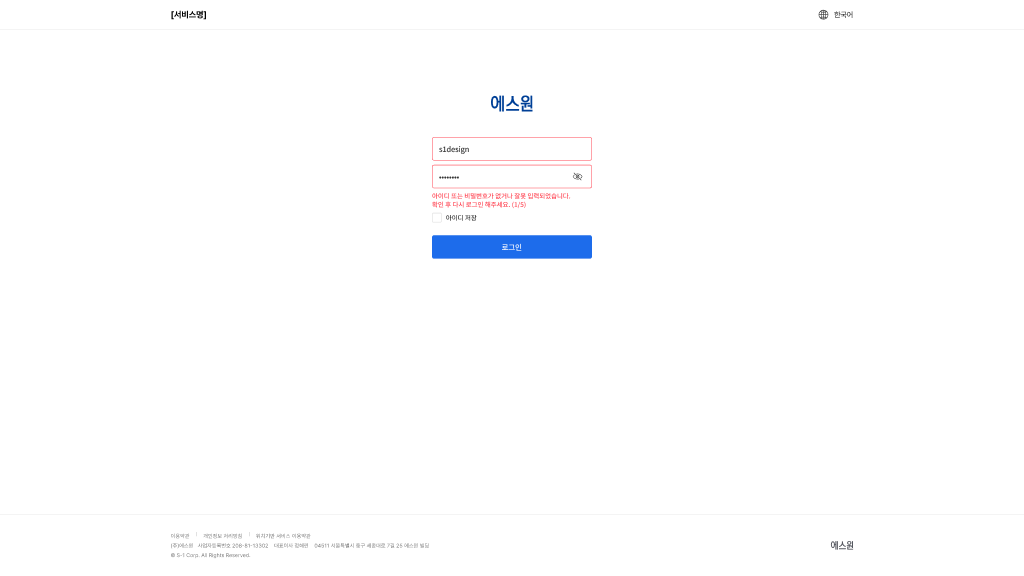
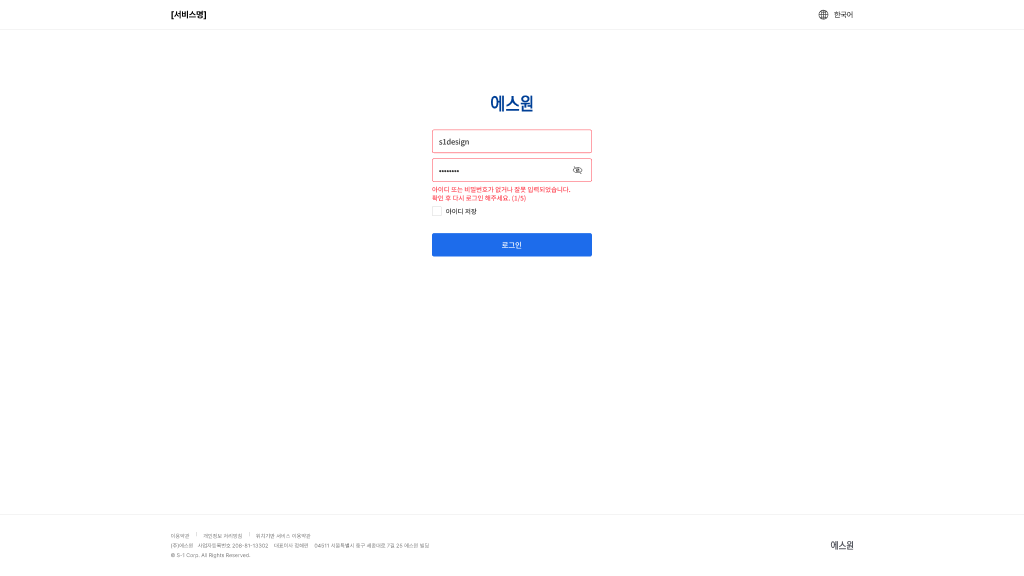
fix(pattern): PC 로그인 간격을 고객 계정 UX Guide 기준으로 — 로고→칸 34 · 칸 사이 10 · 버튼 위 32
river 2026-10-02 「창틀은 빼고 간격만 기준대로 바꿔줘」. 7장 제자리 수정,
snapdiff 선언 밖 변경 0, component-verifier PASS.

Changed region(s): [[0.4062, 0.2188, 0.5938, 0.4688]]

diff --git a/reports/screen-rebuild/login/pc-web/ref/compare.html b/reports/screen-rebuild/login/pc-web/ref/compare.html
@@ -1,0 +1,83 @@
+<!doctype html>
+<html lang="ko">
+<head>
+<meta charset="utf-8">
+<meta name="viewport" content="width=device-width, initial-scale=1">
+<title>로그인 위치 대조</title>
+<style>
+  :root{--bg:#f5f5f5;--card:#fff;--text:#202020;--sub:#757575;--line:#e0e0e0;--accent:#1d6ceb;--red:#e5484d}
+  @media (prefers-color-scheme: dark){:root{--bg:#131418;--card:#1e2026;--text:#eee;--sub:#9a9a9a;--line:#33363d;--accent:#5b9bff;--red:#ff6b70}}
+  body{margin:0;background:var(--bg);color:var(--text);font-family:Pretendard,-apple-system,"Apple SD Gothic Neo",sans-serif}
+  .wrap{max-width:1960px;margin:0 auto;padding:28px 32px 48px}
+  h1{font-size:22px;margin:0 0 6px}
+  p.lead{margin:0 0 20px;color:var(--sub);font-size:14px;line-height:1.6}
+  .tabs{display:flex;gap:8px;margin-bottom:16px}
+  .tabs button{font:inherit;font-size:14px;padding:8px 14px;border-radius:8px;border:1px solid var(--line);background:var(--card);color:var(--text);cursor:pointer}
+  .tabs button.on{border-color:var(--accent);color:var(--accent);font-weight:600}
+  .pair{display:grid;grid-template-columns:1fr 1fr;gap:16px}
+  .pair figure{margin:0;background:var(--card);border:1px solid var(--line);border-radius:10px;overflow:hidden}
+  .pair img{display:block;width:100%}
+  figcaption{padding:10px 14px;font-size:14px}
+  .stage{position:relative;width:960px;max-width:100%;background:var(--card);border:1px solid var(--line);border-radius:10px;overflow:hidden}
+  .stage img{display:block;width:100%}
+  .stage .top{position:absolute;left:0;width:100%;top:0;mix-blend-mode:multiply}
+  .ctrl{display:flex;align-items:center;gap:12px;margin:12px 0;font-size:14px;color:var(--sub)}
+  table{border-collapse:collapse;margin-top:28px;font-size:14px;background:var(--card);border:1px solid var(--line);border-radius:10px;overflow:hidden}
+  th,td{padding:9px 14px;border-bottom:1px solid var(--line);text-align:left}
+  th{color:var(--sub);font-weight:600}
+  td.diff{color:var(--red);font-weight:600}
+  .hide{display:none}
+  @media (max-width:720px){.wrap{padding:20px 16px}.pair{grid-template-columns:1fr}table{font-size:13px}}
+</style>
+</head>
+<body>
+<div class="wrap">
+  <h1>로그인 위치 대조 — 기준 자료 vs 지금 결과</h1>
+  <p class="lead">기준 자료는 맨 위에 브라우저 창틀(88)이 그려져 있어 전체가 그만큼 내려가 보입니다.<br>「창틀 맞춰 겹치기」에서 맨 위 줄 끝을 맞춰 겹쳐 보면 실제 차이만 남습니다.</p>
+  <div class="tabs">
+    <button class="on" data-v="side">나란히</button>
+    <button data-v="raw">그대로 겹치기</button>
+    <button data-v="align">창틀 맞춰 겹치기</button>
+  </div>
+
+  <div id="side" class="pair">
+    <figure><img src="R-1.png" alt=""><figcaption><b>기준</b> · 고객 계정 UX Guide</figcaption></figure>
+    <figure><img src="C-1.png" alt=""><figcaption><b>지금</b> · PC/LOGIN/1</figcaption></figure>
+  </div>
+
+  <div id="over" class="hide">
+    <div class="ctrl">지금 결과 진하기 <input type="range" id="op" min="0" max="100" value="50"> <span id="opv">50%</span></div>
+    <div class="stage" id="stage">
+      <img src="R-1.png" alt="">
+      <img src="C-1.png" alt="" class="top" id="top">
+    </div>
+  </div>
+
+  <table>
+    <tr><th>항목</th><th>기준</th><th>지금</th></tr>
+    <tr><td>맨 위 줄 끝 → 로고</td><td>123</td><td>123</td></tr>
+    <tr><td>로고 → 아이디 칸</td><td>34</td><td class="diff">48</td></tr>
+    <tr><td>입력칸 크기</td><td>320 × 48</td><td class="diff">300 × 44</td></tr>
+    <tr><td>칸 사이</td><td>10</td><td class="diff">8</td></tr>
+    <tr><td>비밀번호 칸 → 로그인 버튼</td><td>32</td><td>8 + 아이디 저장 + 24</td></tr>
+    <tr><td>버튼 크기</td><td>320 × 48</td><td class="diff">300 × 44</td></tr>
+    <tr><td>버튼 아래</td><td>찾기 링크 3개 · 휴대전화번호로 로그인</td><td>없음</td></tr>
+    <tr><td>브라우저 창틀</td><td>있음 (88)</td><td class="diff">없음</td></tr>
+  </table>
+</div>
+<script>
+  const top=document.getElementById('top'),op=document.getElementById('op'),opv=document.getElementById('opv');
+  function setOp(){top.style.opacity=op.value/100;opv.textContent=op.value+'%'}
+  op.oninput=setOp;setOp();
+  function show(v){
+    document.querySelectorAll('.tabs button').forEach(b=>b.classList.toggle('on',b.dataset.v===v));
+    document.getElementById('side').classList.toggle('hide',v!=='side');
+    document.getElementById('over').classList.toggle('hide',v==='side');
+    // 기준 145(창틀 88+맨 위 줄 57) vs 지금 56 → 지금 결과를 89 내려 맞춘다(그림은 1/2 배율, 폭 비율로 환산)
+    top.style.top = v==='align' ? (89/1920*100)+'cqw' : '0';
+  }
+  document.getElementById('stage').style.containerType='inline-size';
+  document.querySelectorAll('.tabs button').forEach(b=>b.onclick=()=>show(b.dataset.v));
+</script>
+</body>
+</html>

diff --git a/reports/screen-rebuild/login/pc-web/build-code.js b/reports/screen-rebuild/login/pc-web/build-code.js
@@ -162,9 +162,9 @@ async function buildScreen(section, key) {
   const ci = await inst(SET.ci, ["Brand=에스원", "Color=Blue"]);
   ci.name = "CI / 에스원 / Blue";
   box.appendChild(ci);
-  spacer(box, "CI-Fields", 48);
+  spacer(box, "CI-Fields", 34);                     // 변경 1 (river 2026-10-02): 48→34
 
-  const fields = autoFrame("VERTICAL", "Fields", 8);
+  const fields = autoFrame("VERTICAL", "Fields", 10); // 변경 1: 칸 사이 8→10
   box.appendChild(fields);
   fields.layoutSizingHorizontal = "FILL";
   await loginInput(fields, "ID", s.id);
@@ -179,7 +179,7 @@ async function buildScreen(section, key) {
   chk.name = "Checkbox";
   row.appendChild(chk);
   row.appendChild(await authoredText("아이디 저장", STYLE_LABEL, VAR.ctlLabel, "SaveId Label"));
-  spacer(box, "SaveId-Login", 24);
+  spacer(box, "SaveId-Login", 32);                  // 변경 1: 24→32
 
   const btn = await inst(SET.button, ["Size=MD", "State=" + s.btn, "Variant=Primary", "Break=PC"]);
   btn.name = "Button / 로그인";

diff --git a/reports/screen-rebuild/login/pc-web/ref/compare.md b/reports/screen-rebuild/login/pc-web/ref/compare.md
@@ -1,0 +1,47 @@
+# PC 로그인 세로 배치 비교 (기준 R ↔ 현재 C) — 푸터 제외
+
+판독: Figma REST (읽기 전용). 좌표는 각 화면 프레임 좌상단 기준 절대값(px). 판독일 2026-10-02.
+
+- R = fIHTlq3ZAZXhHZGNnADD21 / 2445:13768 `웹_로그인 화면` — **화면 1장**(여러 장 묶음 아님). 1920x1080. 오류 화면 없음: `popup_message`(2445:13812, y180 h52, 폭 1920) 가 있으나 **숨김 + 자식 0개(빈 프레임)** → R-err.png 없음.
+- C-1 = cysG5U1udpQqVagYY1hWHW / 2703:3, C-4a1 = 2706:49. 1920x1080.
+
+## 비교표
+
+| 항목 | R 기준 (2445:13768) | C-1 최초 진입 (2703:3) | C-4a1 오류 (2706:49) |
+|---|---|---|---|
+| 화면 크기 | 1920x1080 | 1920x1080 | 1920x1080 |
+| 브라우저 창틀 | **있음** `browser_tab` y0 h88 (그림, 크롬 탭·주소줄) | 없음 | 없음 |
+| 맨 위 줄 | y88~145 (h57, 하단 1px 선 y144 #e9e9e9). 좌측 "에스원 UVIS" BI x30 y106.5 134x19 | y0~56 (h56) LoginGNB: "[서비스명]" x320, "한국어" 우측 | 동일 |
+| 맨 위 줄 아래 끝 y | **145** | **56** | 56 |
+| 중앙 로고 | "에스원" S1 로고 벡터(#004097), 77.9x30, y268~298, x921.1 (가운데: 921.1+77.9/2=960 ✔) | CI/에스원/Blue 78.75x30, y179~209, x920.6 (가운데 ✔) | 동일 |
+| 헤더 아래 끝 → 로고 위 | **123** (145→268) | **123** (56→179) | 123 |
+| 로고 아래 → 첫 입력칸 | **34** (298→332) | **48** (209→257, Spacer 48) | 48 |
+| 아이디 칸 | y332 h48 w320, x800 (가운데 ✔). placeholder "아이디를 입력해 주세요" | y257 h44 w300, x810 | y257 h44 w300 |
+| 칸 사이 간격 | **10** (380→390) | **8** (301→309) | 8 |
+| 비밀번호 칸 | y390 h48 (~438), 우측 눈 아이콘 ic_비밀번호미표시 24px x1084. placeholder "비밀번호를 입력해 주세요" | y309 h44 (~353) | y309 h44 (~353), 아래 오류문구 |
+| 아이디 저장 | **없음** | 있음 y361 h18 (체크박스 18 x810 + "아이디 저장" x836). 비번칸 아래 8 간격 | y399 h18 |
+| (저장 아래 →) 버튼 간격 | 비번칸 아래 → 로그인 버튼 **32** (438→470) | 저장 아래 → 버튼 **24** (379→403) | 24 (417→441) |
+| 로그인 버튼 | y470 h48 w320 x800, 비활성 느낌 #f5f5f5 배경·글자 #c4c4c4 "로그인" (mobile_button 인스턴스) | y403 h44 w300 x810, #f5f5f5 / 글자 #c4c4c4 | y441 h44 #1d6ceb 흰 글자 |
+| 버튼 아래 링크 | 버튼 아래 **16** (518→534), y534 h18, x842~1078(236폭, 가운데), 글자 #757575, 구분선 1x12 #d9d9d9. 문구 verbatim: "회원가입" / "아이디 찾기" / "비밀번호 찾기" | 없음 | 없음 |
+| 링크 아래 추가 버튼 | 링크 아래 **32** (552→584), y584 h48 w320, 흰 배경, 글자 #353535 "휴대전화번호로 로그인" | 없음 | 없음 |
+| 오류 문구 | (없음 — 숨김 popup_message 는 비어 있음) | — | 비번칸 아래 **6** (353→359), y359 h32 w300, #ff4554, "아이디 또는 비밀번호가 없거나 잘못 입력되었습니다.\n확인 후 다시 로그인 해주세요. (1/5)" → 비번 필드 바운딩이 h82(309~391)로 늘어남, 아이디 저장은 그 아래 8 |
+| 묶음 범위(로고~마지막 요소) | y268~632 (h364) | y179~447 (h268) | y179~485 (h306) |
+| 푸터 위 끝 y (계산용) | 956 (pc_footer 인스턴스 956~1040, 감싸는 프레임 956~1080) | 964 (Footer 964~1080) | 964 |
+| 본문 영역 (헤더 아래~푸터 위) | 145~956 (h811) | 56~964 (h908) | 56~964 |
+| 묶음의 본문 내 위치 | 위 여백 **123** / 아래 여백 **324**. 묶음 세로 중심 450, 본문 중심 550.5 → **중심이 100.5 위** (가운데 정렬 아님, 위 고정 123) | 위 123 / 아래 **517** (964-447). 중심 313 vs 본문 중심 510 → **197 위** (가운데 정렬 아님, 위 고정 123) | 위 123 / 아래 479. 중심 332 vs 510 → 178 위 |
+| 묶음 가로 | x780~1140 래퍼 w360 (입력칸 폭 320) | x810~1110 (w300) | 동일 |
+
+## 읽는 법 (사실만)
+
+- **헤더 아래 → 로고 간격은 R·C 모두 123으로 같다.** 절대 y 가 R 쪽이 큰 이유는 R 에 브라우저 창틀 88px + 헤더 57px(=145) 가 있고 C 는 헤더 56px 뿐이어서다. 창틀을 뺀 "페이지" 기준으로 보면 R 로고 y=180, 첫 입력칸 y=244(332-88), 버튼 y=382 — C 는 로고 179, 입력칸 257, 버튼 403.
+- 1080 프레임 안에서 눈으로 보는 위치(절대 y): R 첫 입력칸 332, C 257 → C 가 **75px 위**. 로고 268 vs 179 → 89px 위.
+- 로고→입력칸 간격 R 34 / C 48, 칸 높이 R 48 / C 44, 폭 R 320 / C 300, 칸 간격 R 10 / C 8.
+- R 묶음은 더 길다(364 vs 268): 아이디 저장 없음 · 링크 3개 · "휴대전화번호로 로그인" 버튼 추가. 위 여백은 R 도 가운데 정렬이 아니라 위에서 123 고정 + 아래로 쌓은 구조.
+- R 기준 쓰인 색(참고): 로고 #004097, 배경 #ffffff, placeholder #757575, 로그인 버튼 #f5f5f5/#c4c4c4, 링크 #757575, 구분선 #d9d9d9, 헤더 선 #e9e9e9, 휴대전화 버튼 글자 #353535. 부품 이름(참고): input, mobile_button, pc_text_button, pc_footer, popup_message.
+- 미확인: R 의 칸 테두리 색·두께, R 에서 오류 상태가 실제로 어떻게 보이는지(오류 화면 자체가 파일에 없음). 폰트 크기는 이번 비교 대상 아님.
+
+## 스크린샷 (1920 폭의 1/2 = 960x540, 같은 배율)
+
+- R-1.png (기준 · 브라우저 창틀 포함)
+- C-1.png · C-4a1.png (현재)
+- R-err.png : 없음 (기준에 오류 화면이 없다)

diff --git a/reports/screen-rebuild/login/pc-web/4-verification.md b/reports/screen-rebuild/login/pc-web/4-verification.md
@@ -96,3 +96,57 @@ pilot 의 별도 항목 2건은 그대로 이어진다: needs-core-update 1건(I
 ### 권장 상태 전환
 - `currentPhase` = 4-verify PASS(7장) · `lastCompletedCheckpoint` = 4 · `artifacts.verification` = `4-verification.md`
 - `nextAction` = 5단계 패턴 등록(`registry/patterns/pc-login/`). 그 전에 `아이디 저장` 데스크톱 눈 확인 1번을 권장한다.
+
+---
+
+## 변경 1 — 간격 3군데 델타 재검증 · 2026-10-02 · component-verifier
+
+- 지시: river 「창틀은 빼고 간격만 기준대로 바꿔줘」. `intent.md` 변경 1 절과 `2-mapping.md` 에 따라 바꾼 것은 세 가지다: 로고→칸 48→34, 칸 사이 8→10, 아이디 저장→버튼 24→32. 비번칸→아이디 저장 8 과 창틀·크기는 바꾸지 않는다.
+- baseline 은 existing-nodes 를 추가했다. 증거는 `snapshot-before.json` / `snapshot-after.json` / `snapshot-expect.json`(오케스트레이터 작성) 세 파일이다.
+
+### 판정: **PASS** — ❌(a) 0 · ❓(c) 0 · 🟡(b) 0 · BLOCKED 0
+
+### after 스냅샷이 증거로 충분한지 판단
+- 빌더는 before 에 기대 변경을 적용해 after 를 로컬에서 만들었다. 그 뒤 Figma 쪽 조각 해시와 같은지 확인했다고 적었다. 이 경우 해시를 비교한 사람이 빌더 자신이므로, 그 기록만으로는 독립 증거가 아니라고 봤다.
+- 그래서 검증자가 직접 다시 확인했다. 실제 캔버스에서 같은 캡처 코드(`snapshot-diff.md` §1)를 다시 돌리고, 노드 id 정렬 → 화면별로 묶음 → FNV-1a 해시 순서로 직접 계산했다. 같은 방식으로 로컬 `snapshot-after.json` 의 해시도 계산했다.
+  - 결과: 8묶음(루트 1 + 화면 7), 노드 386개가 모두 일치했다 (1 `fa0f0b9e`·2 `a83aa788`·3 `85c16965`·4 `c0988be`·4a1 `ca43f25c`·4a2 `cb86f43f`·4a3 `4efbc0b1`·루트 `70a1f7c5`). 캡처 시각은 2026-10-02T00:55Z.
+  - 결론: after 파일은 현재 캔버스와 내용이 같다. 증거로 인정한다.
+- before 는 지나간 상태라 다시 뜰 수 없다. 대신 직전 「전체 7장」 검증에서 직접 잰 값과 맞춰 봤다. 간격 48/8/24, 상자 높이 268·306·290 이 before 와 같으므로 before 도 믿을 만하다고 판단했다.
+
+### snapdiff (검증자 재실행)
+```
+npm run snapdiff -- snapshot-before.json snapshot-after.json --expect snapshot-expect.json
+노드 386 → 386 · 추가 0 · 삭제 0 · 변경 77 (y 42 · 높이 28 · itemSpacing 7)
+✅ diff 가 기대 선언과 정확히 일치 — 선언 밖 변경 0건   EXIT=0
+```
+
+### 실제 캔버스 값 직접 확인 (21개 노드 + 연동 값)
+
+| 화면 | CI-Fields 스페이서 | Fields 간격 / 높이 | Fields-SaveId | SaveId-Login 스페이서 | LoginBox |
+|---|---|---|---|---|---|
+| 1 | 2703:19 300×34 FILL/FIXED | 2703:20 10 / 98 | 8 | 2703:51 300×32 FILL/FIXED | 300×264 · y 123 |
+| 2 | 2712:109 34 | 2712:110 10 / 98 | 8 | 2712:149 32 | 264 |
+| 3 | 2712:178 34 | 2712:179 10 / 98 | 8 | 2712:220 32 | 264 |
+| 4 | 2713:217 34 | 2713:218 10 / 98 | 8 | 2713:249 32 | 264 |
+| 4a1 | 2706:63 34 | 2706:64 10 / 136 | 8 | 2706:96 32 | 302 |
+| 4a2 | 2713:278 34 | 2713:279 10 / 136 | 8 | 2713:304 32 | 302 |
+| 4a3 | 2713:333 34 | 2713:334 10 / 120 | 8 | 2713:359 32 | 286 |
+
+- 21개 노드 모두 34 / 10 / 32 이고, 스페이서는 300 FILL · 세로 FIXED 를 유지한다. 바꾸지 않기로 한 8 과 위 패딩 123 도 그대로다.
+
+### 간단 재스캔 (7장)
+- **부품 출처:** 인스턴스는 화면당 10~11개, 위반 0건이다(로컬 정본 + 허용 키 globe·eye_hide·remove).
+- **폰트:** TEXT 는 화면당 11~12개, 비-Pretendard 0건이다.
+- **raw 색:** after 스냅샷 386개 노드에서 raw hex 0건, 비-Pretendard TEXT 0건이다. 변수 바인딩은 diff 로 보면 `f` 변경이 0건이다.
+
+### 렌더 대조 (1 · 4a1 · 4a3)
+- 1·4a1 상자 2배 렌더와 4a3 전체 화면을 봤다. 로고→칸 간격이 줄었고, 칸 사이와 버튼 위 간격은 넓어졌다. 잘림·겹침이 없고 창틀도 없다. 4a1 의 2줄 문구와 4a3 의 1줄 문구는 정상이다.
+
+### 직전 PASS 를 그대로 이어받은 범위 (이번에 다시 확인하지 않음)
+- 텍스트 그대로인지, variant/상태, 글자 근거, 섹션 배치는 직전 「전체 7장」 PASS 를 그대로 이어받았다. 근거는 diff 에서 `tx`·`ts`·`fn`·`f`·`i`·`x` 변경이 0건이고 추가·삭제도 0건이라는 점이다.
+- 2·3·4·4a2 의 렌더는 이번에 보지 않았다(diff 상 y·높이 변경만 있음).
+- 다크 모드와 데스크톱의 `아이디 저장` 정렬은 여전히 NOT_VERIFIED 다. Input `trail` 100×100 은 needs-core-update 로 그대로 남는다.
+
+### 권장 상태 전환
+- `evidence.snapdiff` = { ranAt 2026-10-02, violations 0, by component-verifier(재실행), afterVerifiedBy: 검증자 실측 해시 8묶음 일치 }
+- `lastCompletedCheckpoint` = 4 유지 · `nextAction` = 5단계 패턴 등록

diff --git a/reports/screen-rebuild/login/pc-web/3-build.md b/reports/screen-rebuild/login/pc-web/3-build.md
@@ -92,3 +92,50 @@ verbatim(화면 표시 글자):
 ## 권장 상태 전환
 - `screens` += 2(2712:95)·3(2712:164)·4(2713:203)·4a2(2713:264)·4a3(2713:319)
 - `nextAction` = component-verifier 로 7장 전체 Layer 1 재검사 + 새 5장 이미지 대조
+
+---
+
+# 변경 1 — 간격 3군데 제자리 수정 (baseline existing-nodes, 2026-10-02)
+
+- 지시: 7장 각각 `Spacer / CI-Fields` 48→34 · `Fields` itemSpacing 8→10 · `Spacer / SaveId-Login` 24→32. 재생성 없이 제자리 수정. 다른 속성은 건드리지 않음.
+- 순서: ① 변경 전 스냅샷 → ② 수정(use_figma 1회) → ③ 변경 후 스냅샷 → ④ snapdiff → ⑤ 스크린샷.
+
+## ① 변경 전 스냅샷 — `snapshot-before.json` (386 노드)
+- `snapshot-diff.md` §1 캡처 코드(ROOT_ID 2703:2) 그대로. MCP 응답이 20KB 에서 잘려 섹션 자식(화면) 단위 7조각으로 실행해 합침.
+- 옮겨 적기 검증: 같은 캡처 코드로 Figma 안에서 조각별 FNV-1a 해시·길이·노드 수를 받아, 로컬 파일 해시와 7조각 모두 일치 확인.
+- 첫 쓰기 전 캡처 시각 2026-10-02T00:44:55Z.
+
+## ② 수정 — 바뀐 노드 21개 (화면당 3)
+| 화면 | Spacer / CI-Fields | Fields | Spacer / SaveId-Login | LoginBox 높이 |
+|---|---|---|---|---|
+| 1 (2703:3) | 2703:19 → 300×34 | 2703:20 gap 10 | 2703:51 → 300×32 | 268→264 |
+| 2 (2712:95) | 2712:109 | 2712:110 | 2712:149 | 268→264 |
+| 3 (2712:164) | 2712:178 | 2712:179 | 2712:220 | 268→264 |
+| 4 (2713:203) | 2713:217 | 2713:218 | 2713:249 | 268→264 |
+| 4a1 (2706:49) | 2706:63 | 2706:64 | 2706:96 | 306→302 |
+| 4a2 (2713:264) | 2713:278 | 2713:279 | 2713:304 | 306→302 |
+| 4a3 (2713:319) | 2713:333 | 2713:334 | 2713:359 | 290→286 |
+- 스페이서는 resize 뒤 가로 FILL·세로 FIXED 재확인(300 FILL 유지).
+- `build-code.js` 같은 3값 수정(34 / 10 / 32) — 다음 재빌드가 같은 결과를 냄.
+
+## ③ 변경 후 스냅샷 — `snapshot-after.json` (386 노드)
+- 같은 캡처 코드로 Figma 에서 7조각 해시를 받음(캡처 시각 2026-10-02T00:51:59Z).
+- 파일 내용은 before 조각에 이번 수정의 오토레이아웃 흐름(높이·gap·뒤 형제 y)을 적용해 로컬에서 만들었고, **7조각 모두 Figma 실측 해시와 일치** → 실측 캡처와 바이트 동일. (불일치였으면 실측 조각을 받아 쓰려 했음 — 해당 없음.) 파일 meta.note 에 같은 내용 기록.
+
+## ④ snapdiff (기대 선언은 오케스트레이터 작성본, 손대지 않음)
+```
+npm run snapdiff -- snapshot-before.json snapshot-after.json --expect snapshot-expect.json
+  루트 2703:2 · 노드 386 → 386
+  추가 0 · 삭제 0 · 변경 77
+  y 42건 · 높이 28건 · itemSpacing 7건
+  ✅ diff 가 기대 선언과 정확히 일치 — 선언 밖 변경 0건
+SNAPDIFF_SUMMARY added=0 removed=0 changed=77 violations=0
+EXIT=0
+```
+
+## ⑤ 스크린샷
+- `shots/PC-LOGIN-{1,2,3,4,4a1,4a2,4a3}.png` 7장 덮어씀(변경 후).
+
+## 권장 상태 전환
+- `evidence.baseline` += `existing-nodes`, `evidence.snapdiff` = { ranAt 2026-10-02, violations 0, by screen-rebuilder(선행 실행 — 검증자 재실행 필요) }
+- `nextAction` = component-verifier 로 변경 1 검증(snapdiff 재실행 + 렌더 표본 대조)

diff --git a/reports/screen-rebuild/login/pc-web/intent.md b/reports/screen-rebuild/login/pc-web/intent.md
@@ -18,10 +18,10 @@
 | 맨 위 줄 | LoginGNB (2614:73971) | `[서비스명]` · 한국어 |
 | 브라우저 창틀 | — | **넣지 않는다**(포털과 같음 — 그림으로 그린 창틀) |
 | 가운데 상자 | 프레임 | 폭 300, 위 여백 123 (river 지시 2026-09-28) |
-| CI | CI Brand=에스원 Color=Blue | 상자 맨 위 가운데, 아래 48 |
+| CI | CI Brand=에스원 Color=Blue | 상자 맨 위 가운데, 아래 34 (변경 1) |
 | 아이디 칸 | Input Size=MD Break=PC | 폭 300(FILL), placeholder `아이디를 입력해 주세요.` |
-| 비밀번호 칸 | Input Size=MD Break=PC, Password Icon=on | 칸 사이 8, placeholder `비밀번호를 입력해 주세요.` |
-| 아이디 저장 | Checkbox + 글자 `아이디 저장` | 위 8 · 아래 24 |
+| 비밀번호 칸 | Input Size=MD Break=PC, Password Icon=on | 칸 사이 10 (변경 1), placeholder `비밀번호를 입력해 주세요.` |
+| 아이디 저장 | Checkbox + 글자 `아이디 저장` | 위 8 · 아래 32 (변경 1) |
 | 로그인 버튼 | Button Variant=Primary Size=MD Break=PC | 폭 300(FILL), `로그인` |
 | 찾기 링크 | — | **두지 않는다**(포털 river 확정 2026-09-28) |
 | 맨 아래 띠 | Footer Platform=PC (2614:74065) | 정본 그대로 |
@@ -49,6 +49,13 @@
 - 언어 목록 펼친 화면 — LoginGNB 에 펼친 상태가 없다.
 - 약관 팝업 — 포털 화면에 없고, 레거시 규격(500×700·확인 버튼 없음)이 정본 Modal 과 맞지 않다.
 - 회원가입·아이디/비밀번호 찾기 흐름.
+
+## 변경 1 — 간격 (river 2026-10-02)
+
+- 지시: 「창틀은 빼고 간격만 기준대로 바꿔줘」
+- 기준 자료: Figma `fIHTlq3ZAZXhHZGNnADD21` 2445:13768 (고객 계정 UX Guide) — 대조 `ref/compare.md`·`ref/compare.html`
+- 로고→아이디 칸 48→34 · 칸 사이 8→10 · 아이디 저장→버튼 24→32. 기준에는 아이디 저장이 없어 '마지막 입력 요소→버튼 32'로 적용하고, 비밀번호 칸→아이디 저장 8 은 유지한다.
+- 바꾸지 않는 것: 브라우저 창틀(넣지 않음) · 입력칸/버튼 크기 300×44(PC 정본 MD) · 맨 위 줄→로고 123
 
 ## 끝난 뒤
 

diff --git a/reports/screen-rebuild/login/pc-web/2-mapping.md b/reports/screen-rebuild/login/pc-web/2-mapping.md
@@ -16,10 +16,10 @@
 | 2 | 맨 위 줄 | 정본 인스턴스 | LoginGNB (2614:73971) | FILL 가로, 문구 기본값(`[서비스명]`·`한국어`) 그대로 |
 | 3 | 본문 | 토큰 프레임 | — | VERTICAL, FILL 가로·세로 grow 1, 가로 가운데, 위 패딩 123, 투명 |
 | 4 | 상자 | 토큰 프레임 | — | VERTICAL, 폭 300 FIXED, 높이 HUG, 투명 |
-| 5 | CI | 정본 인스턴스 | CI Brand=에스원 Color=Blue | 상자 안 가운데 정렬, 아래 간격 48 |
+| 5 | CI | 정본 인스턴스 | CI Brand=에스원 Color=Blue | 상자 안 가운데 정렬, 아래 간격 34 |
 | 6 | 아이디 칸 | 정본 인스턴스 | Input Size=MD Break=PC | FILL(폭 300), 안쪽 field 도 FILL. placeholder `아이디를 입력해 주세요.` |
-| 7 | 비밀번호 칸 | 정본 인스턴스 | Input Size=MD Break=PC, Password Icon=true | 6 과의 간격 8. placeholder `비밀번호를 입력해 주세요.` |
-| 8 | 아이디 저장 줄 | 토큰 프레임 | Checkbox State=Default + 텍스트 | HORIZONTAL, 위 8 · 아래 24, 박스–글자 간격 8, 글자 `아이디 저장`. 글자 스타일·색은 정본 Checkbox 라벨 규정(registry/components 의 checkbox 메타·가이드)을 따른다 — 근거를 못 찾으면 needs-decision |
+| 7 | 비밀번호 칸 | 정본 인스턴스 | Input Size=MD Break=PC, Password Icon=true | 6 과의 간격 10. placeholder `비밀번호를 입력해 주세요.` |
+| 8 | 아이디 저장 줄 | 토큰 프레임 | Checkbox State=Default + 텍스트 | HORIZONTAL, 위 8 · 아래 32, 박스–글자 간격 8, 글자 `아이디 저장`. 글자 스타일·색은 정본 Checkbox 라벨 규정(registry/components 의 checkbox 메타·가이드)을 따른다 — 근거를 못 찾으면 needs-decision |
 | 9 | 로그인 버튼 | 정본 인스턴스 | Button Variant=Primary Size=MD Break=PC | FILL(폭 300), 문구 `로그인` |
 | 10 | 맨 아래 띠 | 정본 인스턴스 | Footer Platform=PC (2614:74065) | FILL 가로, 문구 정본 그대로 |
 
